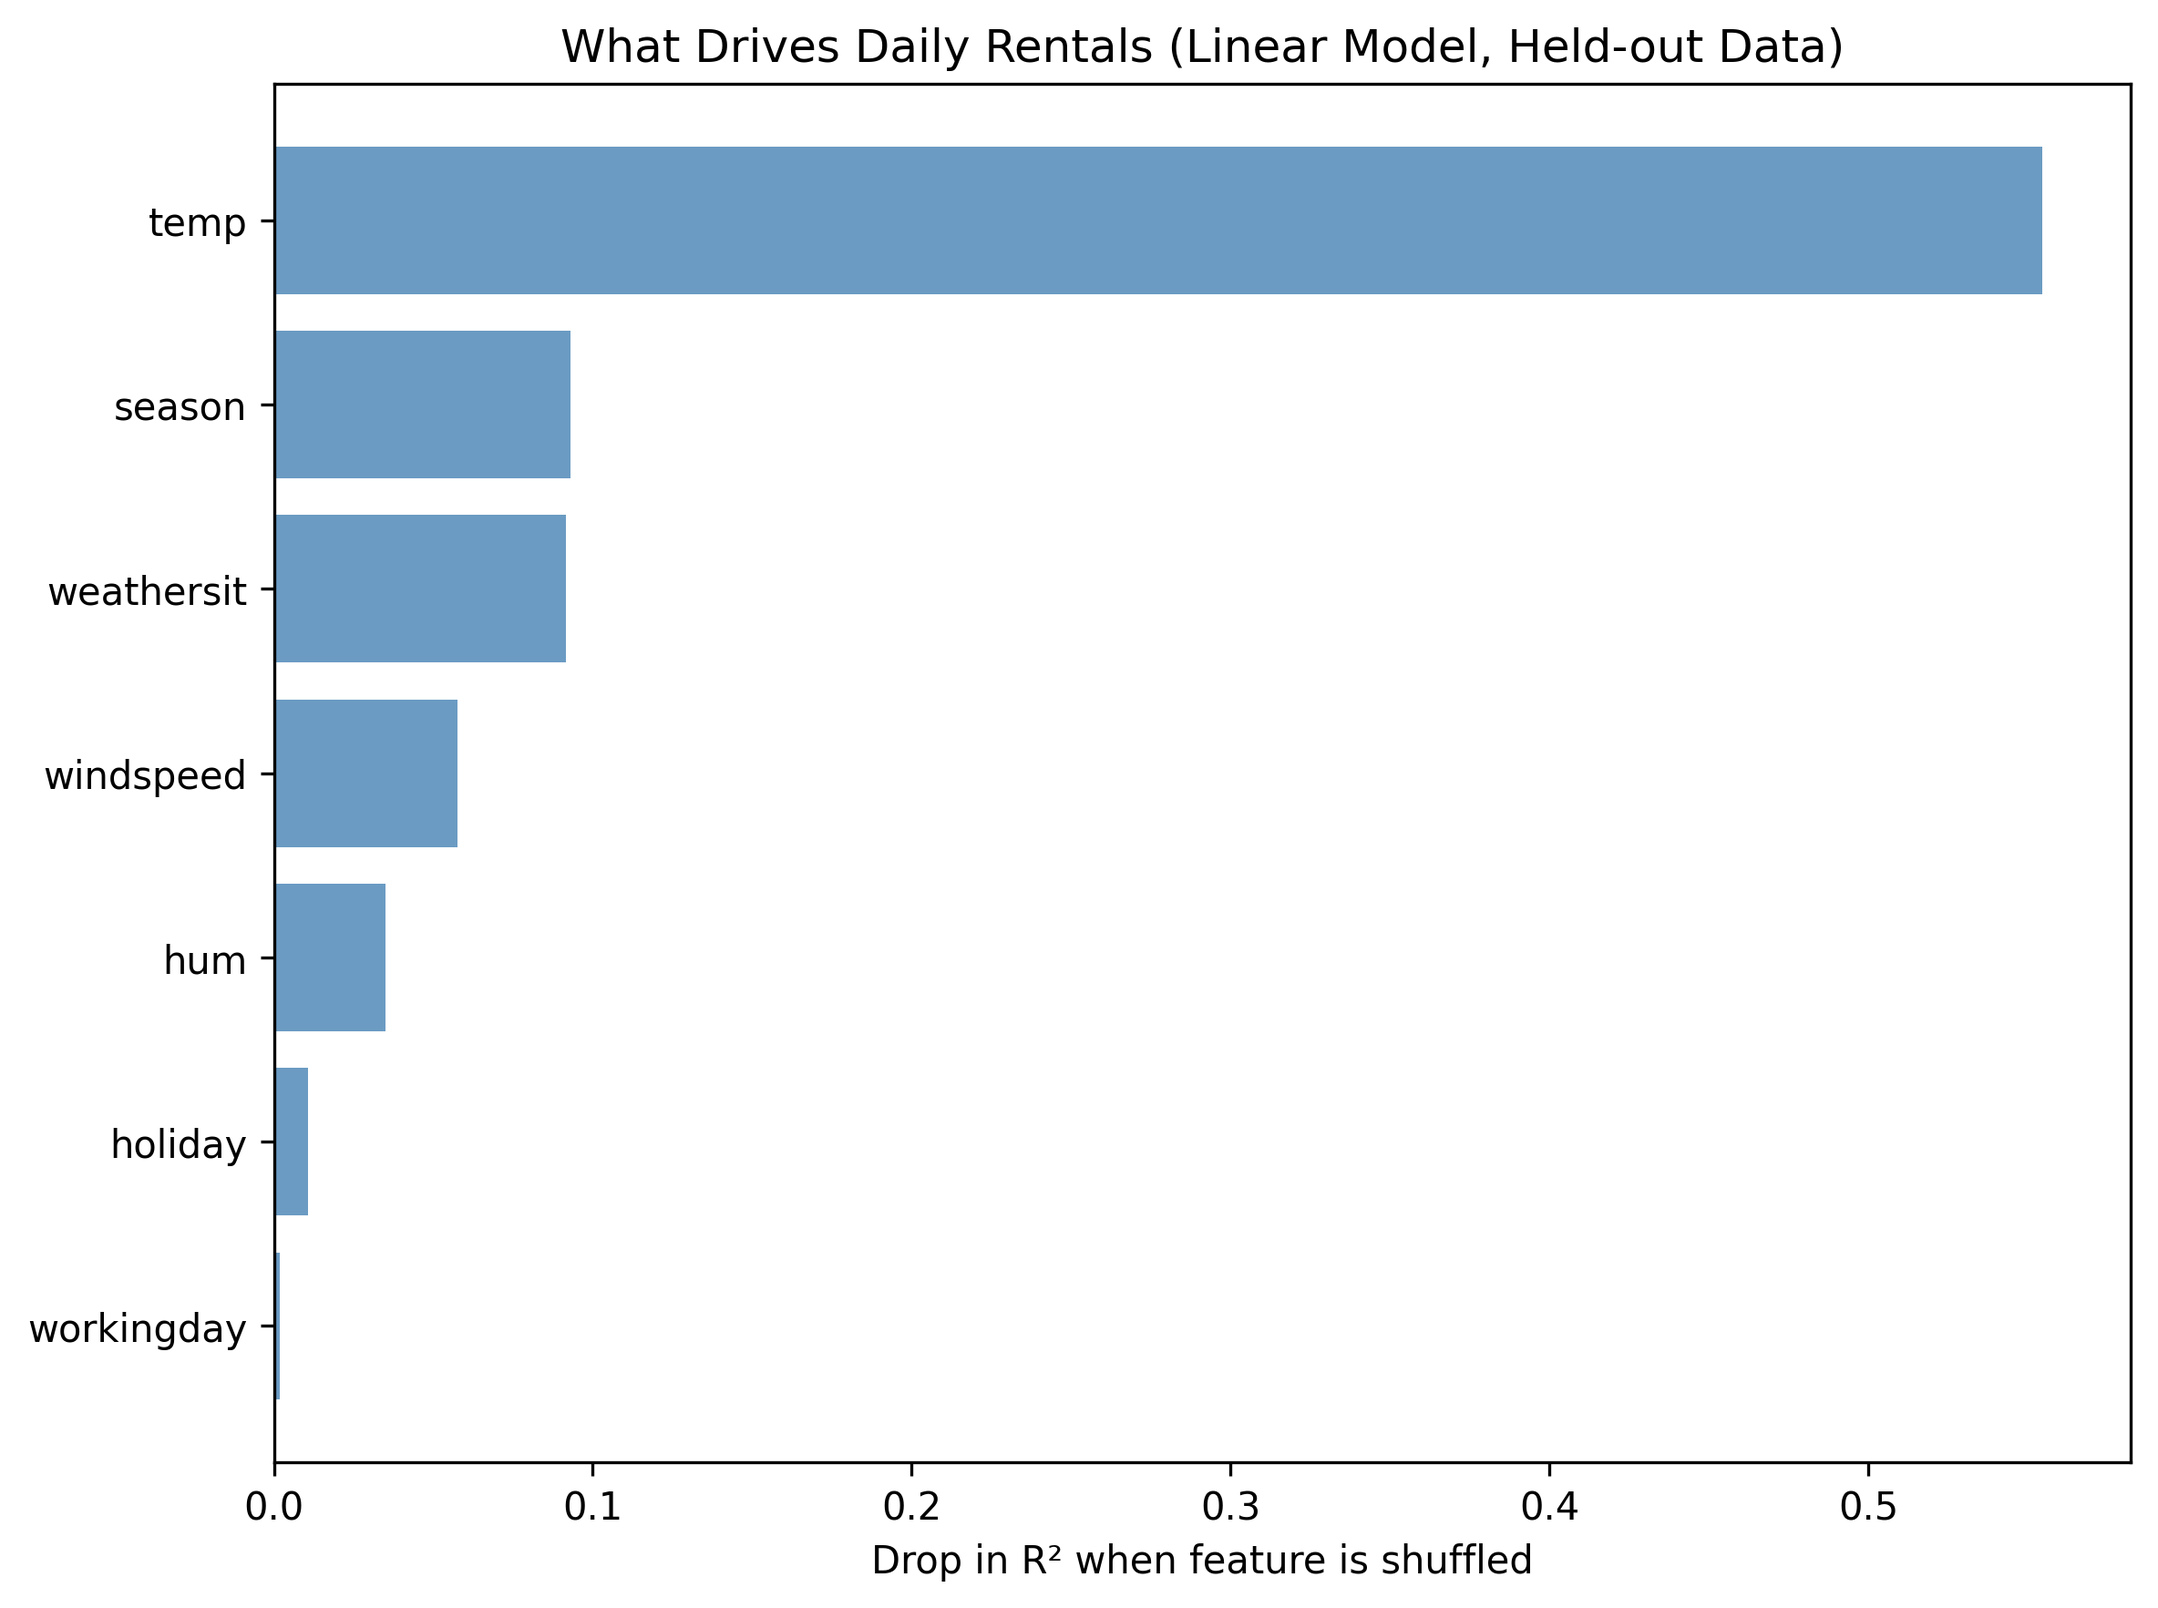
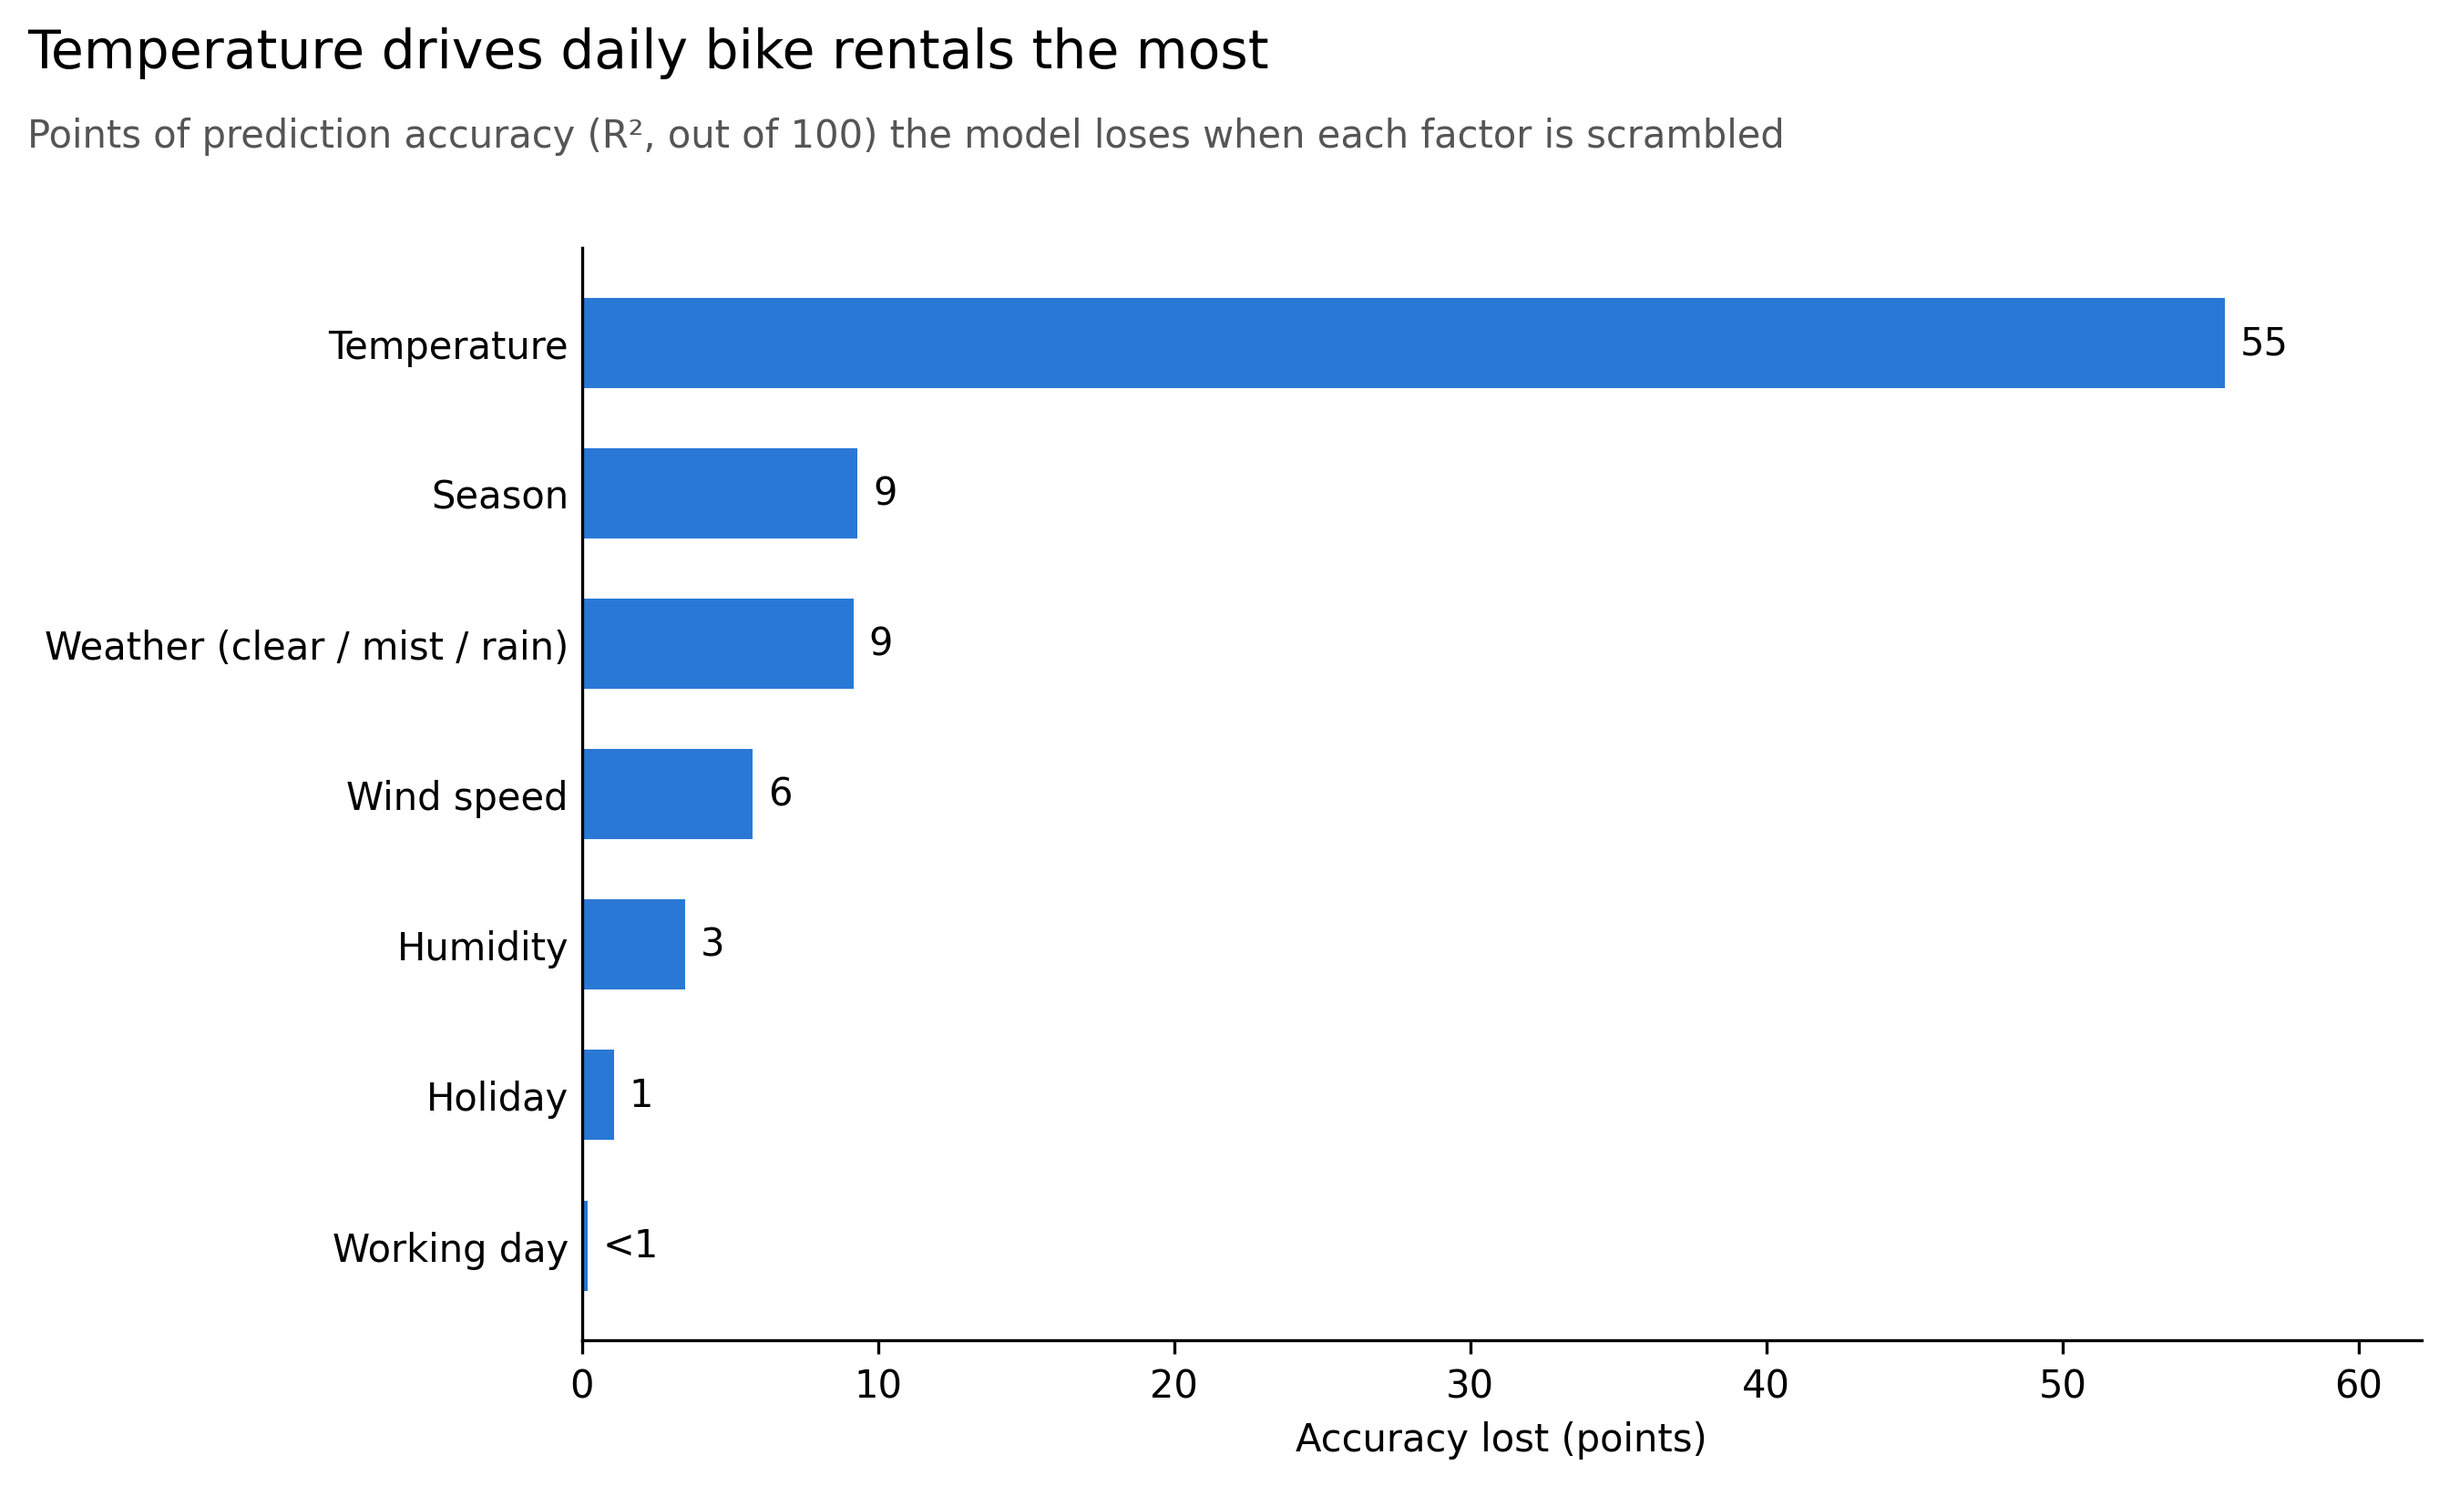
Make feature importance chart readable without context

diff --git a/src/rental_model.py b/src/rental_model.py
@@ -139,18 +139,45 @@ def raw_feature_importance(
     return pd.Series(drops).sort_values(ascending=False)
 
 
-def plot_feature_importance(importance: pd.Series, output_dir: Path) -> None:
-    """Save a bar chart of permutation importance (drop in R2 when a feature is shuffled)."""
-    output_dir.mkdir(parents=True, exist_ok=True)
-    top = importance.iloc[::-1]
+FEATURE_LABELS = {
+    "temp": "Temperature",
+    "season": "Season",
+    "weathersit": "Weather (clear / mist / rain)",
+    "windspeed": "Wind speed",
+    "hum": "Humidity",
+    "holiday": "Holiday",
+    "workingday": "Working day",
+    "yr": "Year",
+}
 
-    plt.figure(figsize=(8, 6))
-    plt.barh(top.index, top.values, color="steelblue", alpha=0.8)
-    plt.xlabel("Drop in R² when feature is shuffled")
-    plt.title("What Drives Daily Rentals (Linear Model, Held-out Data)")
-    plt.tight_layout()
-    plt.savefig(output_dir / "feature_importance.png", dpi=300, bbox_inches="tight")
-    plt.close()
+
+def plot_feature_importance(importance: pd.Series, output_dir: Path) -> None:
+    """Save a bar chart of how much held-out R2 drops when each input is shuffled."""
+    output_dir.mkdir(parents=True, exist_ok=True)
+    # Smallest first so the biggest driver ends up on top; R2 shown in points out of 100.
+    points = (importance * 100).iloc[::-1]
+    labels = [FEATURE_LABELS.get(name, name) for name in points.index]
+
+    fig, ax = plt.subplots(figsize=(9, 5.5))
+    bars = ax.barh(labels, points.values, color="#2a78d6", height=0.6)
+    ax.bar_label(bars, labels=[f"{v:.0f}" if v >= 1 else "<1" for v in points.values], padding=4)
+
+    fig.text(0.01, 0.98, "Temperature drives daily bike rentals the most", fontsize=14, va="top")
+    fig.text(
+        0.01, 0.92,
+        "Points of prediction accuracy (R², out of 100) the model loses "
+        "when each factor is scrambled",
+        fontsize=10, color="#555555", va="top",
+    )
+    ax.set_xlabel("Accuracy lost (points)")
+    ax.set_xlim(0, points.max() * 1.12)
+    ax.spines[["top", "right"]].set_visible(False)
+    ax.tick_params(axis="y", length=0)
+
+    # Leave room at the top for the title and subtitle.
+    fig.tight_layout(rect=(0, 0, 1, 0.86))
+    fig.savefig(output_dir / "feature_importance.png", dpi=300, bbox_inches="tight")
+    plt.close(fig)
 
 
 def report_results(results: ModelResults) -> None:
